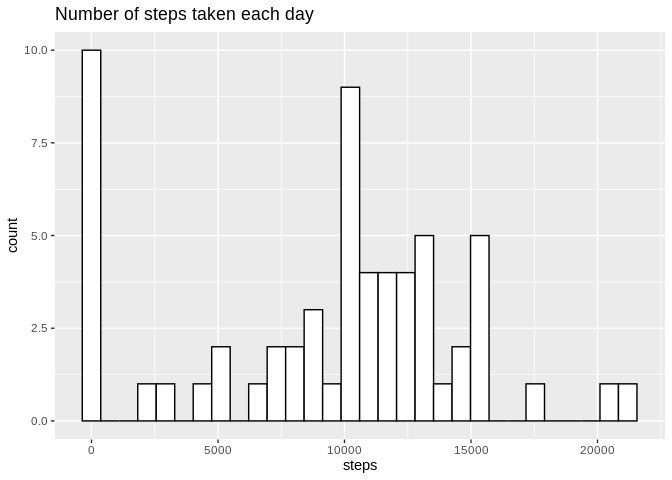
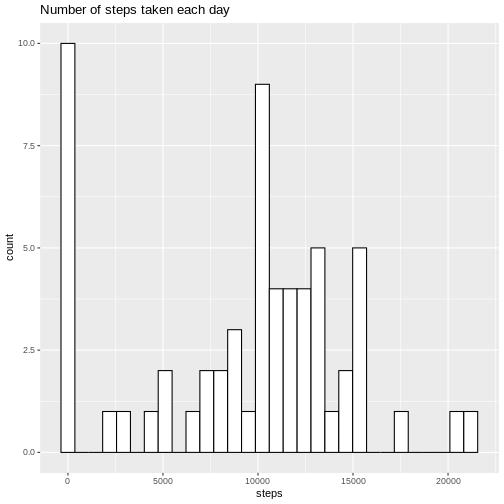
Re-submitted with manual execution of knit()

diff --git a/PA1_template.md b/PA1_template.md
@@ -90,7 +90,7 @@ ggplot(data = daily, aes(x = steps)) +
   labs(title = "Number of steps taken each day")
 ```
 
-![](PA1_template_files/figure-html/unnamed-chunk-3-1.png)<!-- -->
+![plot of chunk unnamed-chunk-3](figure/unnamed-chunk-3-1.png)
 
 
 ## What is the average daily activity pattern?
@@ -117,7 +117,7 @@ ggplot(data = avgDaily, aes(x = interval, y = steps)) +
   labs(title = "Average daily activity pattern")
 ```
 
-![](PA1_template_files/figure-html/unnamed-chunk-5-1.png)<!-- -->
+![plot of chunk unnamed-chunk-5](figure/unnamed-chunk-5-1.png)
 
 ```r
 # find the most active interval
@@ -205,7 +205,7 @@ ggplot(data = dailyPatched, aes(x = steps)) +
   labs(title = "Number of steps taken each day (imputed data)")
 ```
 
-![](PA1_template_files/figure-html/unnamed-chunk-9-1.png)<!-- -->
+![plot of chunk unnamed-chunk-9](figure/unnamed-chunk-9-1.png)
 
 
 ## Are there differences in activity patterns between weekdays and weekends?
@@ -235,5 +235,5 @@ ggplot(data = avgDailyEnh, aes(x = interval, y = steps)) +
   labs(title = "Average daily activity pattern")
 ```
 
-![](PA1_template_files/figure-html/unnamed-chunk-11-1.png)<!-- -->
+![plot of chunk unnamed-chunk-11](figure/unnamed-chunk-11-1.png)
 
